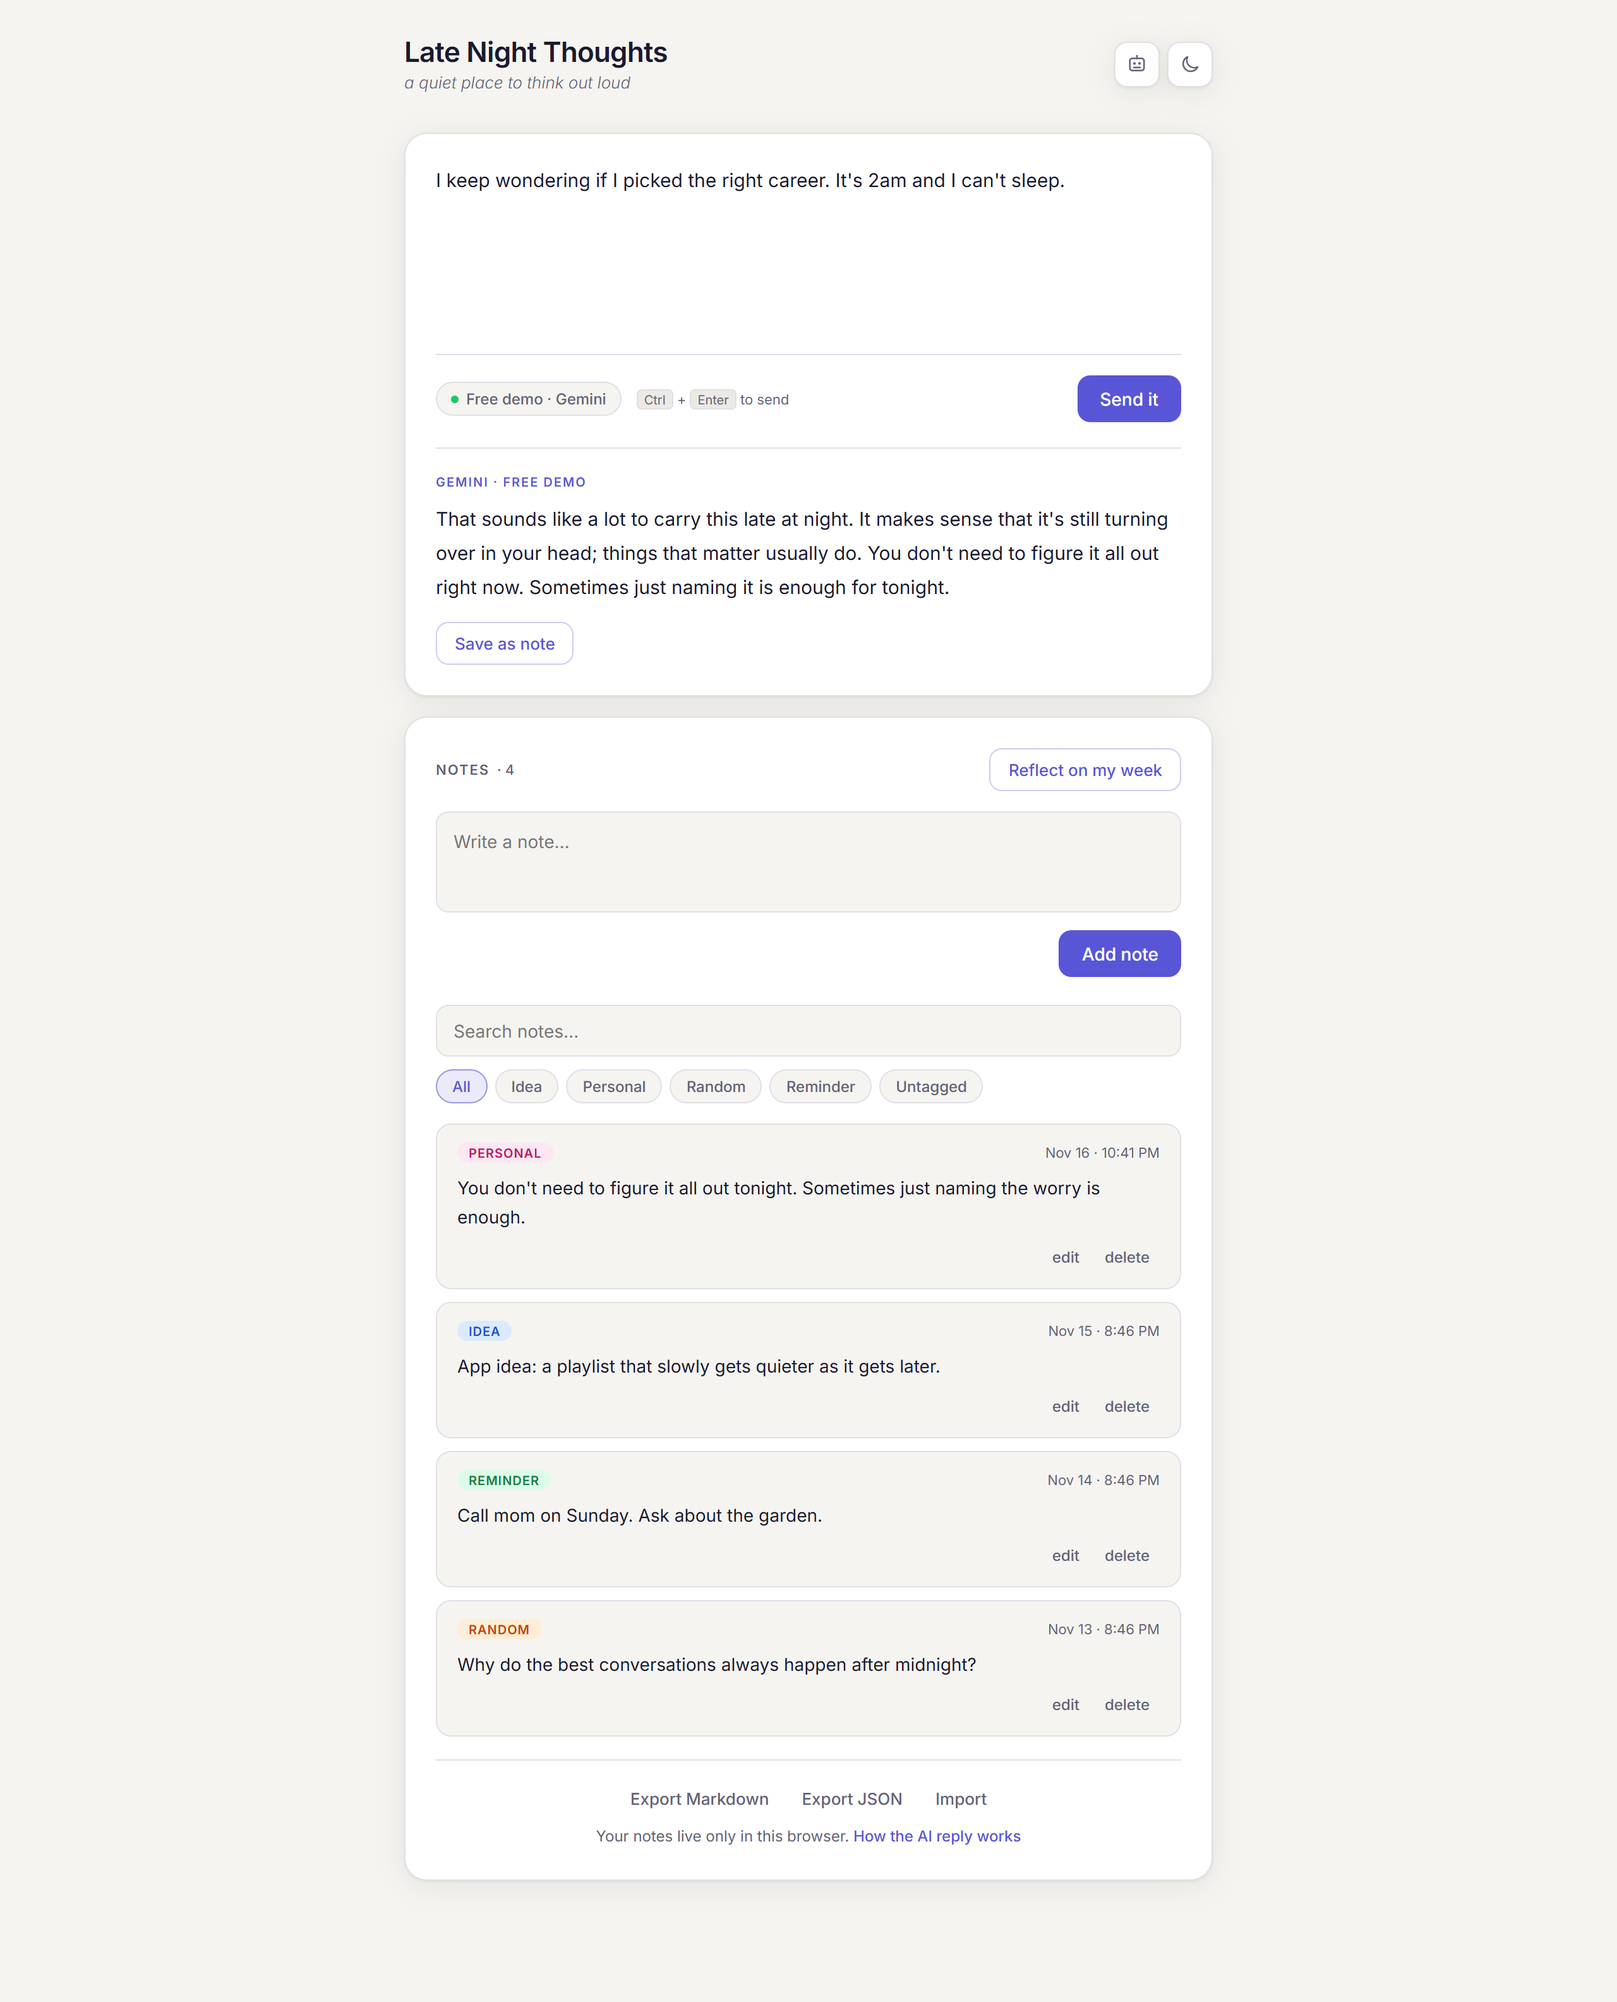
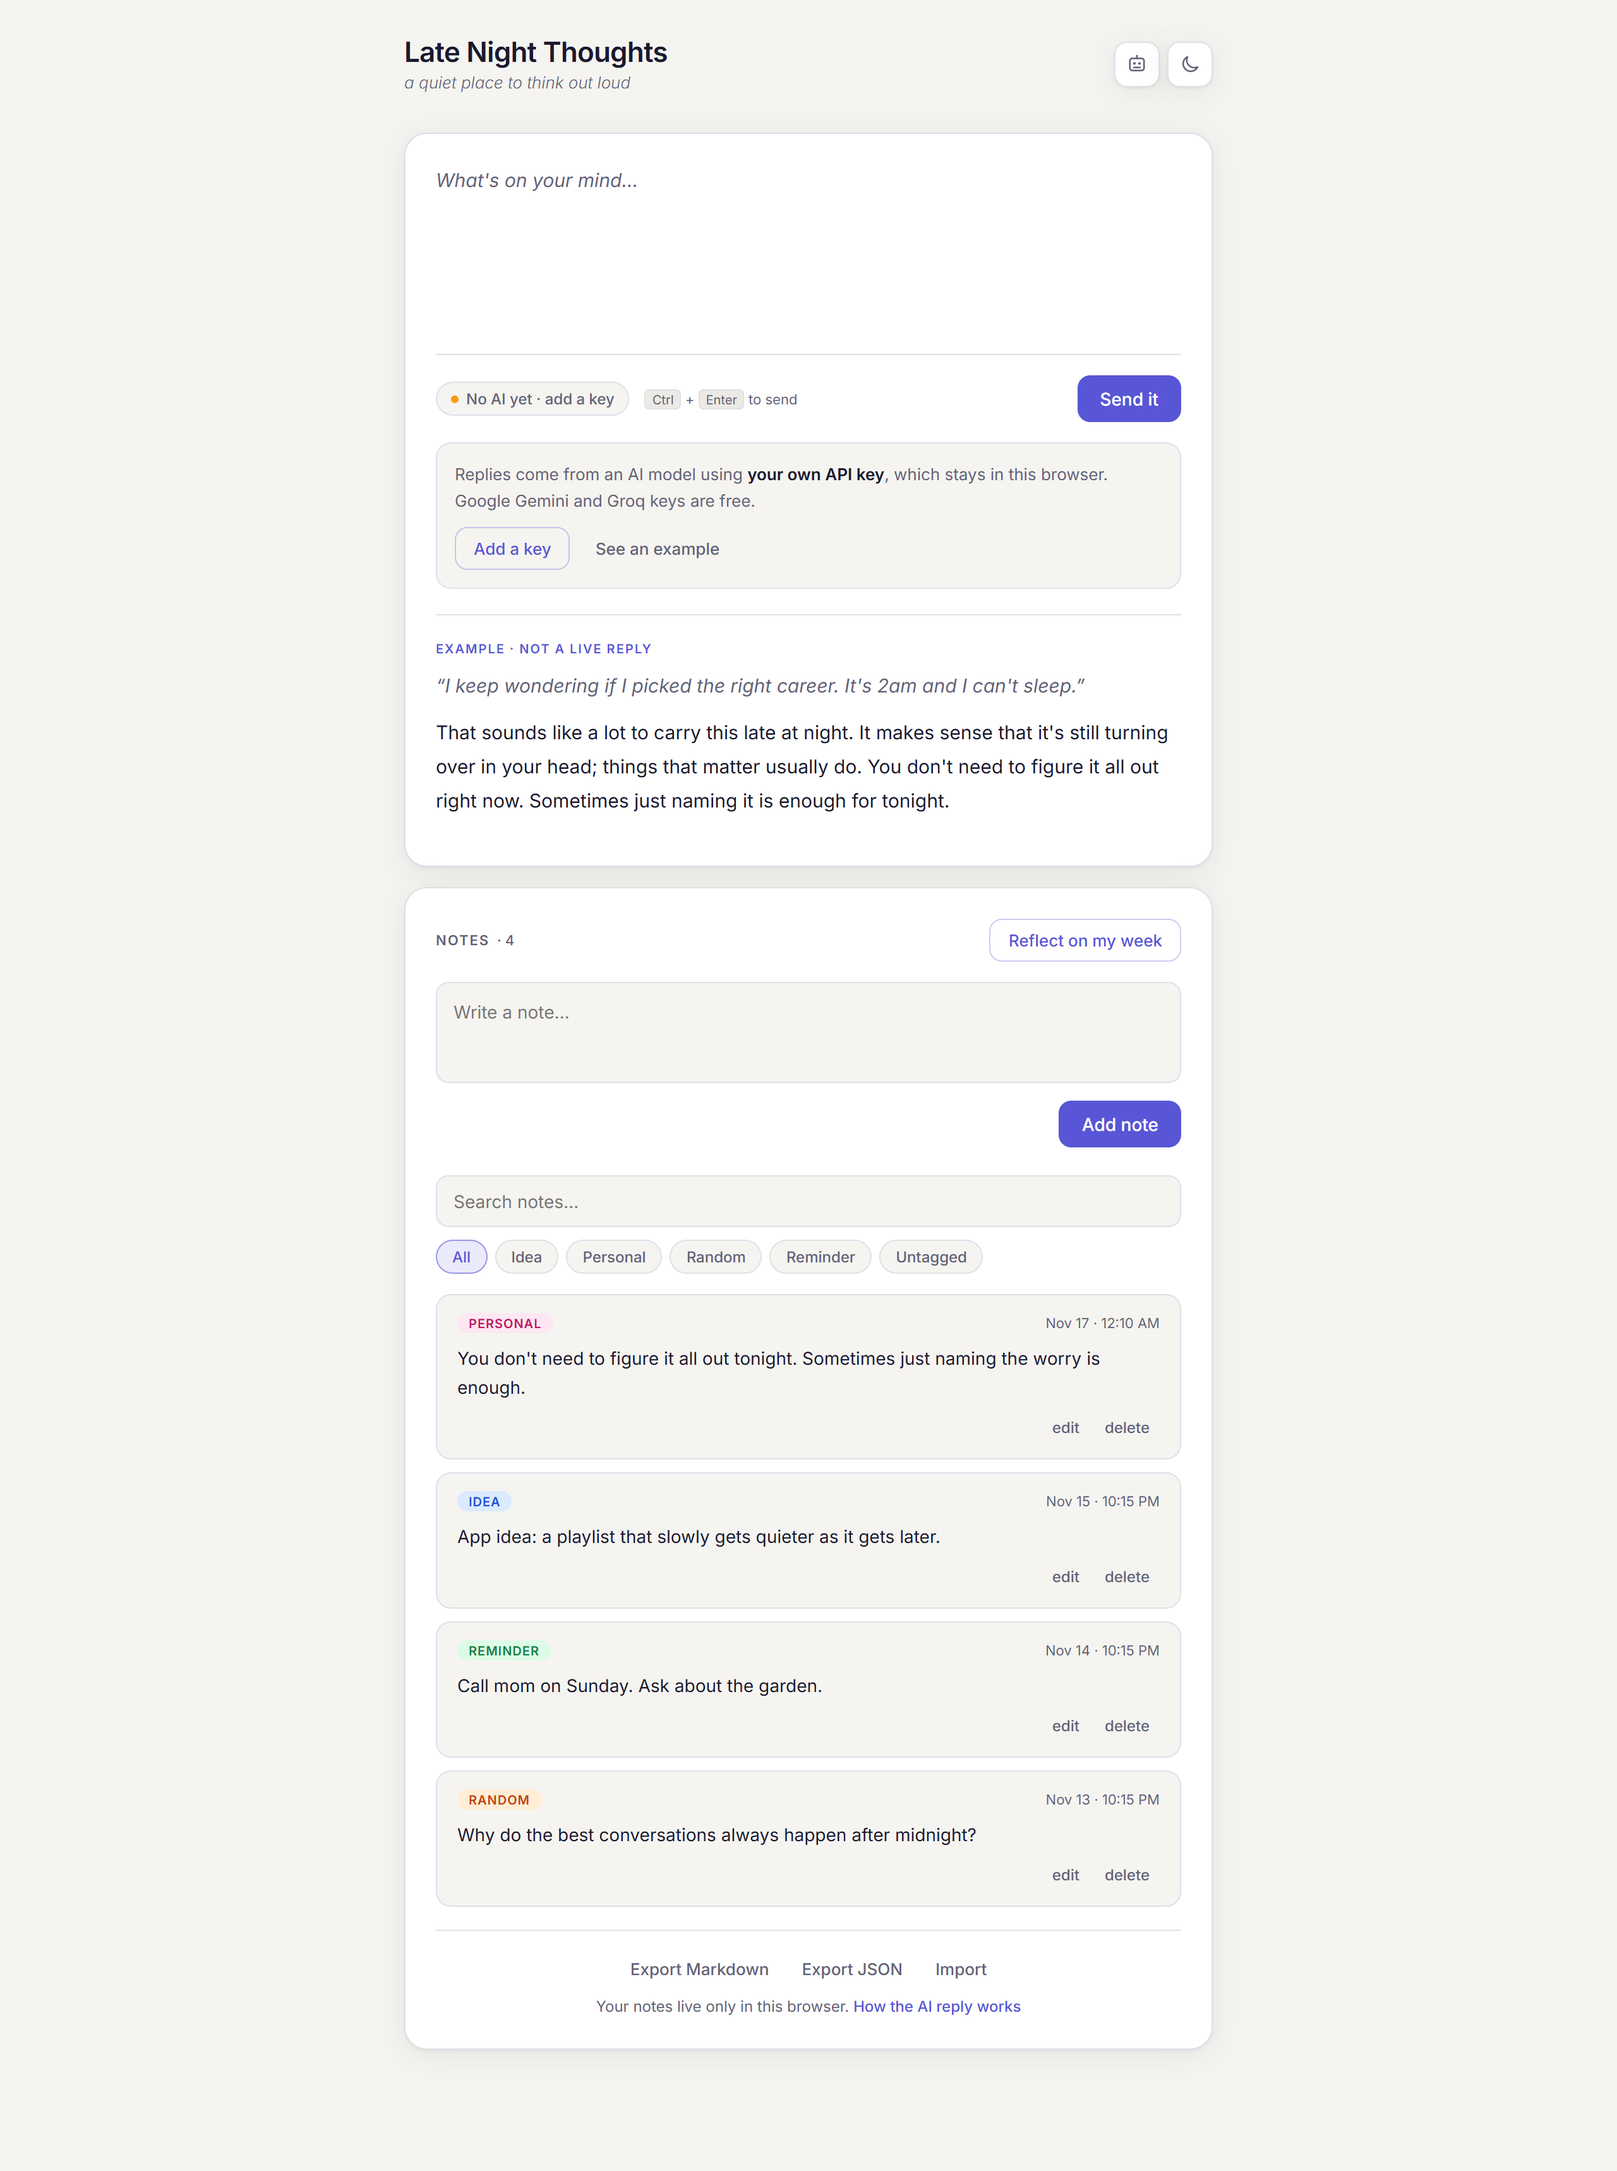
Friendly no-key setup: labelled example, free-key links, Gemini default
- When no AI is configured, show a short prompt to add a key or
  "See an example" (a sample reply clearly labelled as not live)
- Send / Reflect without a key explain what's needed instead of
  failing; settings open on Gemini when the server demo is off
- "Get a key" link per provider, noting Gemini and Groq free tiers
- Server demo option is greyed out when the site has no key
- README and screenshots updated for the bring-your-own-key setup

diff --git a/index.html b/index.html
@@ -364,6 +364,34 @@
       margin-top: 14px;
     }
 
+    .setup-hint {
+      margin-top: 16px;
+      padding: 14px;
+      background: var(--bg);
+      border: 1px solid var(--border);
+      border-radius: 12px;
+      font-size: 13px;
+      line-height: 1.6;
+      color: var(--text-2);
+    }
+
+    .setup-hint strong { color: var(--text); font-weight: 600; }
+
+    .setup-actions {
+      display: flex;
+      flex-wrap: wrap;
+      gap: 8px;
+      margin-top: 10px;
+    }
+
+    .field-hint a, .setup-hint a { color: var(--accent); font-weight: 500; }
+
+    .example-thought {
+      font-style: italic;
+      color: var(--text-2);
+      margin-bottom: 10px;
+    }
+
     .error-box {
       display: none;
       margin-top: 14px;
@@ -941,10 +969,17 @@
         <div class="thought-divider"></div>
         <div class="thought-footer">
           <div class="thought-footer-left">
-            <button class="mode-chip" id="modeChip" type="button" aria-haspopup="dialog"><span class="mode-dot" id="modeDot" aria-hidden="true"></span><span id="modeText">Free demo</span></button>
+            <button class="mode-chip" id="modeChip" type="button" aria-haspopup="dialog"><span class="mode-dot" id="modeDot" aria-hidden="true"></span><span id="modeText">AI settings</span></button>
             <span class="send-hint"><kbd>Ctrl</kbd> + <kbd>Enter</kbd> to send</span>
           </div>
           <button class="btn-primary" id="sendBtn" type="button">Send it</button>
+        </div>
+        <div class="setup-hint" id="setupHint" hidden>
+          <p>Replies come from an AI model using <strong>your own API key</strong>, which stays in this browser. Google Gemini and Groq keys are free.</p>
+          <div class="setup-actions">
+            <button type="button" class="btn-secondary" id="addKeyBtn" aria-haspopup="dialog">Add a key</button>
+            <button type="button" class="btn-ghost" id="exampleBtn">See an example</button>
+          </div>
         </div>
         <div class="error-box" id="errorBox" role="alert"></div>
         <div class="response-box" id="responseBox" aria-live="polite" aria-busy="false">
@@ -1037,7 +1072,8 @@
 
         <div class="field-group" id="keyGroup">
           <label class="field-label" for="apiKeyInput">API key</label>
-          <input type="password" id="apiKeyInput" placeholder="sk-ant-…" autocomplete="off" spellcheck="false">
+          <input type="password" id="apiKeyInput" placeholder="sk-ant-…" autocomplete="off" spellcheck="false" aria-describedby="keyHint">
+          <p class="field-hint" id="keyHint"></p>
         </div>
 
         <div class="field-group" id="modelGroup">
@@ -1338,6 +1374,7 @@
       renderModelOptions(p, modelFor(p));
       setModelHint(p);
       renderPrivacyNote(p);
+      renderKeyHint(p);
     }
 
     function renderModelOptions(p, selected) {
@@ -1494,8 +1531,10 @@
     }
 
     function openSettings() {
-      $('providerSelect').value = cfg.provider;
-      fillSettings(cfg.provider);
+      // No server demo on this site: start people on Gemini, which has free keys.
+      const p = cfg.provider === 'demo' && demoEnabled === false ? 'gemini' : cfg.provider;
+      $('providerSelect').value = p;
+      fillSettings(p);
       $('savedMsg').classList.remove('visible');
       showDialog($('settingsModal'), $('providerSelect'));
     }
@@ -1542,25 +1581,70 @@
       flashSaved.t = setTimeout(() => msg.classList.remove('visible'), 2200);
     }
 
+    // True when a reply can actually be requested with the saved settings.
+    function aiReady() {
+      const p = cfg.provider;
+      if (p === 'demo') return demoEnabled !== false;
+      if (p === 'custom') return !!cfg.customEndpoint;
+      return !!keys[p];
+    }
+
     function updateModeChip() {
       const p = cfg.provider;
-      const dot = $('modeDot');
-      let text, ok;
-      if (p === 'demo') {
-        ok = demoEnabled !== false;
-        text = demoEnabled === false ? 'Demo unavailable · add a key' : 'Free demo · Gemini';
-      } else {
-        ok = !!keys[p] || p === 'custom';
-        text = ok ? `${PROVIDERS[p].label} · your key` : `${PROVIDERS[p].label} · add your key`;
-      }
+      const ok = aiReady();
+      let text;
+      if (p === 'demo') text = demoEnabled === false ? 'No AI yet · add a key' : 'Free demo · Gemini';
+      else text = ok ? `${PROVIDERS[p].label} · your key` : `${PROVIDERS[p].label} · add your key`;
       $('modeText').textContent = text;
-      dot.classList.toggle('off', !ok);
+      $('modeDot').classList.toggle('off', !ok);
       $('modeChip').setAttribute('aria-label', `AI: ${text}. Open AI settings`);
+      // Only nudge once we know the free demo isn't there.
+      $('setupHint').hidden = ok || (p === 'demo' && demoEnabled === null);
+    }
+
+    // Where to get a key; `free` marks providers with a no-cost tier.
+    const KEY_LINKS = {
+      gemini:     { url: 'https://aistudio.google.com/apikey', host: 'aistudio.google.com', free: true },
+      groq:       { url: 'https://console.groq.com/keys', host: 'console.groq.com', free: true },
+      anthropic:  { url: 'https://console.anthropic.com/settings/keys', host: 'console.anthropic.com' },
+      openai:     { url: 'https://platform.openai.com/api-keys', host: 'platform.openai.com' },
+      openrouter: { url: 'https://openrouter.ai/keys', host: 'openrouter.ai' },
+      mistral:    { url: 'https://console.mistral.ai/api-keys', host: 'console.mistral.ai' },
+      deepseek:   { url: 'https://platform.deepseek.com/api_keys', host: 'platform.deepseek.com' },
+    };
+
+    function renderKeyHint(p) {
+      const link = KEY_LINKS[p];
+      $('keyHint').innerHTML = link
+        ? `Get a key at <a href="${link.url}" target="_blank" rel="noopener noreferrer">${link.host}</a>${link.free ? ' (free tier available)' : ''}.`
+        : '';
+    }
+
+    // A clearly labelled sample, so people can see what the app does before adding a key.
+    const EXAMPLE = {
+      thought: "I keep wondering if I picked the right career. It's 2am and I can't sleep.",
+      reply: "That sounds like a lot to carry this late at night. It makes sense that it's still turning over in your head; things that matter usually do. You don't need to figure it all out right now. Sometimes just naming it is enough for tonight.",
+    };
+
+    function showExample() {
+      const box = $('responseBox'), text = $('responseText');
+      $('errorBox').style.display = 'none';
+      $('responseLabel').textContent = 'example · not a live reply';
+      text.textContent = '';
+      const q = document.createElement('p');
+      q.className = 'example-thought';
+      q.textContent = `“${EXAMPLE.thought}”`;
+      text.append(q, document.createTextNode(EXAMPLE.reply));
+      currentAiResponse = '';
+      $('saveAiBtn').hidden = true;
+      box.style.display = 'block';
     }
 
     $('settingsBtn').addEventListener('click', openSettings);
     $('modeChip').addEventListener('click', openSettings);
     $('privacyLink').addEventListener('click', openSettings);
+    $('addKeyBtn').addEventListener('click', openSettings);
+    $('exampleBtn').addEventListener('click', showExample);
     $('themeBtn').addEventListener('click', toggleTheme);
     $('providerSelect').addEventListener('change', e => fillSettings(e.target.value));
     $('modelSelect').addEventListener('change', () => {
@@ -1744,6 +1828,9 @@
       } catch {
         demoEnabled = false;
       }
+      const demoOption = $('providerSelect').querySelector('option[value="demo"]');
+      demoOption.disabled = !demoEnabled;
+      demoOption.textContent = demoEnabled ? 'Free demo (Gemini, rate limited)' : 'Free demo (not available on this site)';
       updateModeChip();
     }
 
@@ -1796,19 +1883,24 @@
     function showError(message) {
       const box = $('errorBox');
       box.textContent = message;
-      if (/settings|key/i.test(message)) {
+      const addButton = (label, fn) => {
         const b = document.createElement('button');
         b.type = 'button';
-        b.textContent = 'Open AI settings';
-        b.addEventListener('click', openSettings);
+        b.textContent = label;
+        b.addEventListener('click', fn);
         box.append(b);
-      }
+      };
+      if (/settings|key/i.test(message)) addButton('Open AI settings', openSettings);
+      if (!aiReady()) addButton('See an example', showExample);
       box.style.display = 'block';
     }
+
+    const NEEDS_KEY = 'Add an AI key to get a reply. It stays in this browser, and Google Gemini and Groq keys are free.';
 
     function sendThought() {
       const thought = $('thoughtInput').value.trim();
       if (!thought) { $('thoughtInput').focus(); return; }
+      if (!aiReady()) { showError(NEEDS_KEY); return; }
       runReply('thought', thought, '', $('sendBtn'), 'thinking…');
     }
 
@@ -1818,6 +1910,11 @@
         .filter(n => new Date(n.timestamp).getTime() >= weekAgo)
         .sort((a, b) => new Date(a.timestamp) - new Date(b.timestamp));
       if (!recent.length) { showToast('No notes from the last 7 days yet. Save a few first.'); return; }
+      if (!aiReady()) {
+        showError(NEEDS_KEY);
+        $('errorBox').scrollIntoView({ behavior: 'smooth', block: 'center' });
+        return;
+      }
       // Keep the newest notes if the week is too long to send.
       const lines = [];
       let size = 0;

diff --git a/README.md b/README.md
@@ -4,7 +4,7 @@
 
 A quiet place to think out loud. Write down what's keeping you up, and a calm, grounded AI friend writes back in a few honest sentences. No toxic positivity, no hype. Save the thoughts worth keeping as tagged notes, and once a week ask it to reflect on what you wrote.
 
-**Live demo: [latenightthoughts.vercel.app](https://latenightthoughts.vercel.app)** · works on phone and desktop, installable, no sign-up and no API key needed.
+**Live: [latenightthoughts.vercel.app](https://latenightthoughts.vercel.app)** · works on phone and desktop, installable, no sign-up. Notes work straight away. For AI replies, paste your own key (Google Gemini and Groq keys are free), or tap **See an example** to see what a reply looks like.
 
 ![Late Night Thoughts in dark mode: a thought, the AI's reply, and tagged notes](docs/screenshot.png)
 
@@ -16,7 +16,8 @@ A quiet place to think out loud. Write down what's keeping you up, and a calm, g
 
 ## What it does
 
-- **Instant reply, no key needed.** The free demo mode sends your thought through a small serverless function to Google Gemini and streams the reply back as it's written.
+- **A calm reply, streamed as it's written,** from the AI provider you choose with your own key. The key stays in your browser.
+- **Optional free demo mode:** if the site owner sets a server-side `GEMINI_API_KEY`, visitors can try it without a key. A small serverless function forwards the thought to Gemini with rate limits. The public deployment runs without it, and the app shows a clearly labelled example reply instead.
 - **Bring your own key** for 11 providers: Anthropic, OpenAI, Google, xAI, DeepSeek, Groq, Mistral, Perplexity, Together, OpenRouter, or any OpenAI-compatible endpoint (including a local model).
 - **A model picker that doesn't go stale:** each provider gets a short list of current models with plain labels ("fastest, cheapest", "most capable"). **Load models from your account** fetches the live list from the provider, and **Custom model ID…** takes any model.
 - **Test connection** checks your key and model with a tiny request before you save. When something fails, errors say what to do next: wrong key, unknown model, out of credit or rate limited. Each reply is labelled with the model that actually wrote it.
@@ -31,7 +32,7 @@ A quiet place to think out loud. Write down what's keeping you up, and a calm, g
 | What | Where it goes |
 |---|---|
 | Your notes | Only this browser's `localStorage`. Nothing is uploaded. Export them to back them up. |
-| Free demo replies | Your thought (or, for "Reflect on my week", that week's notes) goes to this site's `/api/reflect` function, which forwards it to Google Gemini and doesn't store it. The demo uses Gemini's free tier, where Google may use prompts to improve its products. Use your own key if that matters to you. |
+| Free demo replies (only if enabled) | Your thought (or, for "Reflect on my week", that week's notes) goes to this site's `/api/reflect` function, which forwards it to Google Gemini and doesn't store it. The demo uses Gemini's free tier, where Google may use prompts to improve its products. Use your own key if that matters to you. |
 | Your own API key | Stays in your browser and is sent **only** to the provider you picked, straight from your browser. It never touches this site's server. By default it lives in `sessionStorage` and is forgotten when you close the tab. Tick "Remember my keys on this device" to keep it in `localStorage`, and use "Forget all saved keys" to wipe it. |
 
 The site owner's Gemini key is a server-side environment variable. It is never sent to the browser and isn't in this repo.
@@ -82,4 +83,4 @@ npm test
 2. Under **Settings → Environment Variables**, add `GEMINI_API_KEY`. Optionally add `DEMO_MODELS`, a comma-separated fallback list that defaults to `gemini-3.5-flash-lite,gemini-3.1-flash-lite,gemini-2.5-flash-lite`.
 3. Redeploy. Optionally add a WAF rate-limit rule for `/api/reflect` under **Firewall**.
 
-Without `GEMINI_API_KEY` the app still works: demo mode shows as unavailable and visitors can use their own key.
+Without `GEMINI_API_KEY` the app still works fully with visitors' own keys. The demo option is greyed out, and new visitors see a short "add a key / see an example" prompt.
